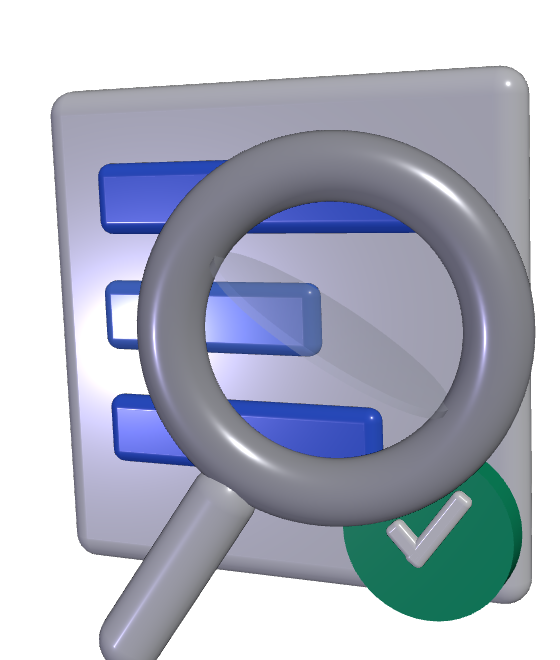
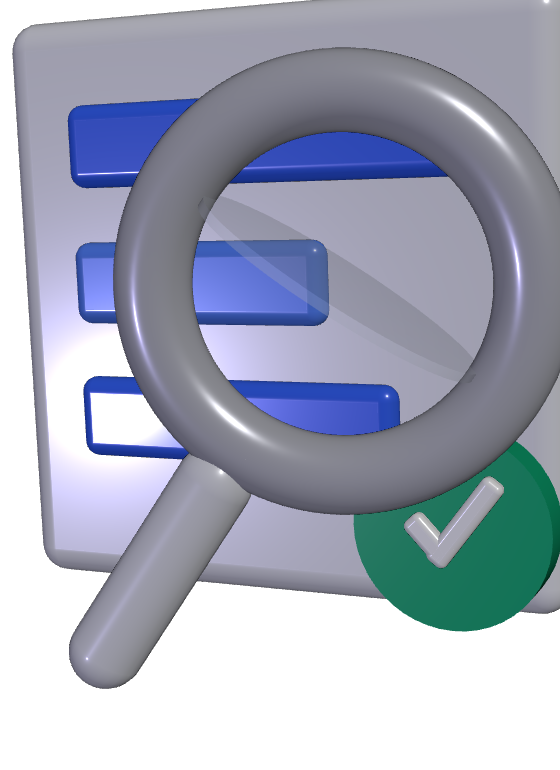
Venvers carousel: show the full magnifier on slide 3
Claude-Session: https://claude.ai/code/session_01NghCctPQaKXziVeL1FGG6n

diff --git a/editor/src/venvers/Carrusel.tsx b/editor/src/venvers/Carrusel.tsx
@@ -187,7 +187,7 @@ const S3: React.FC = () => (
     <HandArrow x={420} y={560} w={150} h={110} d="M8 90 C 60 100, 110 80, 140 24" head="M110 26 L142 22 L140 56" />
     {/* "after": 3D card (pre-rendered by the VenversCard3D composition to avoid
         WebGL compositing glitches on this slide) */}
-    <Img src={staticFile("venvers/cfdi-card-3d.png")} style={{ position: "absolute", left: 520, top: 120, width: 560, height: 660 }} />
+    <Img src={staticFile("venvers/cfdi-card-3d.png")} style={{ position: "absolute", left: 520, top: 110, width: 560, height: 770 }} />
     <VHeadline
       size={68}
       width={860}
@@ -269,8 +269,8 @@ const S5: React.FC = () => (
 // Standalone 3D card, rendered once to public/venvers/cfdi-card-3d.png.
 export const VenversCard3D: React.FC = () => (
   <AbsoluteFill style={{ background: "transparent" }}>
-    <Stage top={0} left={0} width={560} height={660}>
-      <Pop at={0} scale={0.9} spin={0} tilt={0.05}>
+    <Stage top={0} left={0} width={560} height={770}>
+      <Pop at={0} scale={0.9} spin={0} tilt={0.05} position={[0, 0.45, 0]}>
         <CfdiCard3D />
       </Pop>
     </Stage>

diff --git a/editor/src/Root.tsx b/editor/src/Root.tsx
@@ -59,7 +59,7 @@ export const RemotionRoot: React.FC = () => {
         width={1080}
         height={1350}
       />
-      <Composition id="VenversCard3D" component={VenversCard3D} durationInFrames={60} fps={30} width={560} height={660} />
+      <Composition id="VenversCard3D" component={VenversCard3D} durationInFrames={60} fps={30} width={560} height={770} />
     </>
   );
 };
